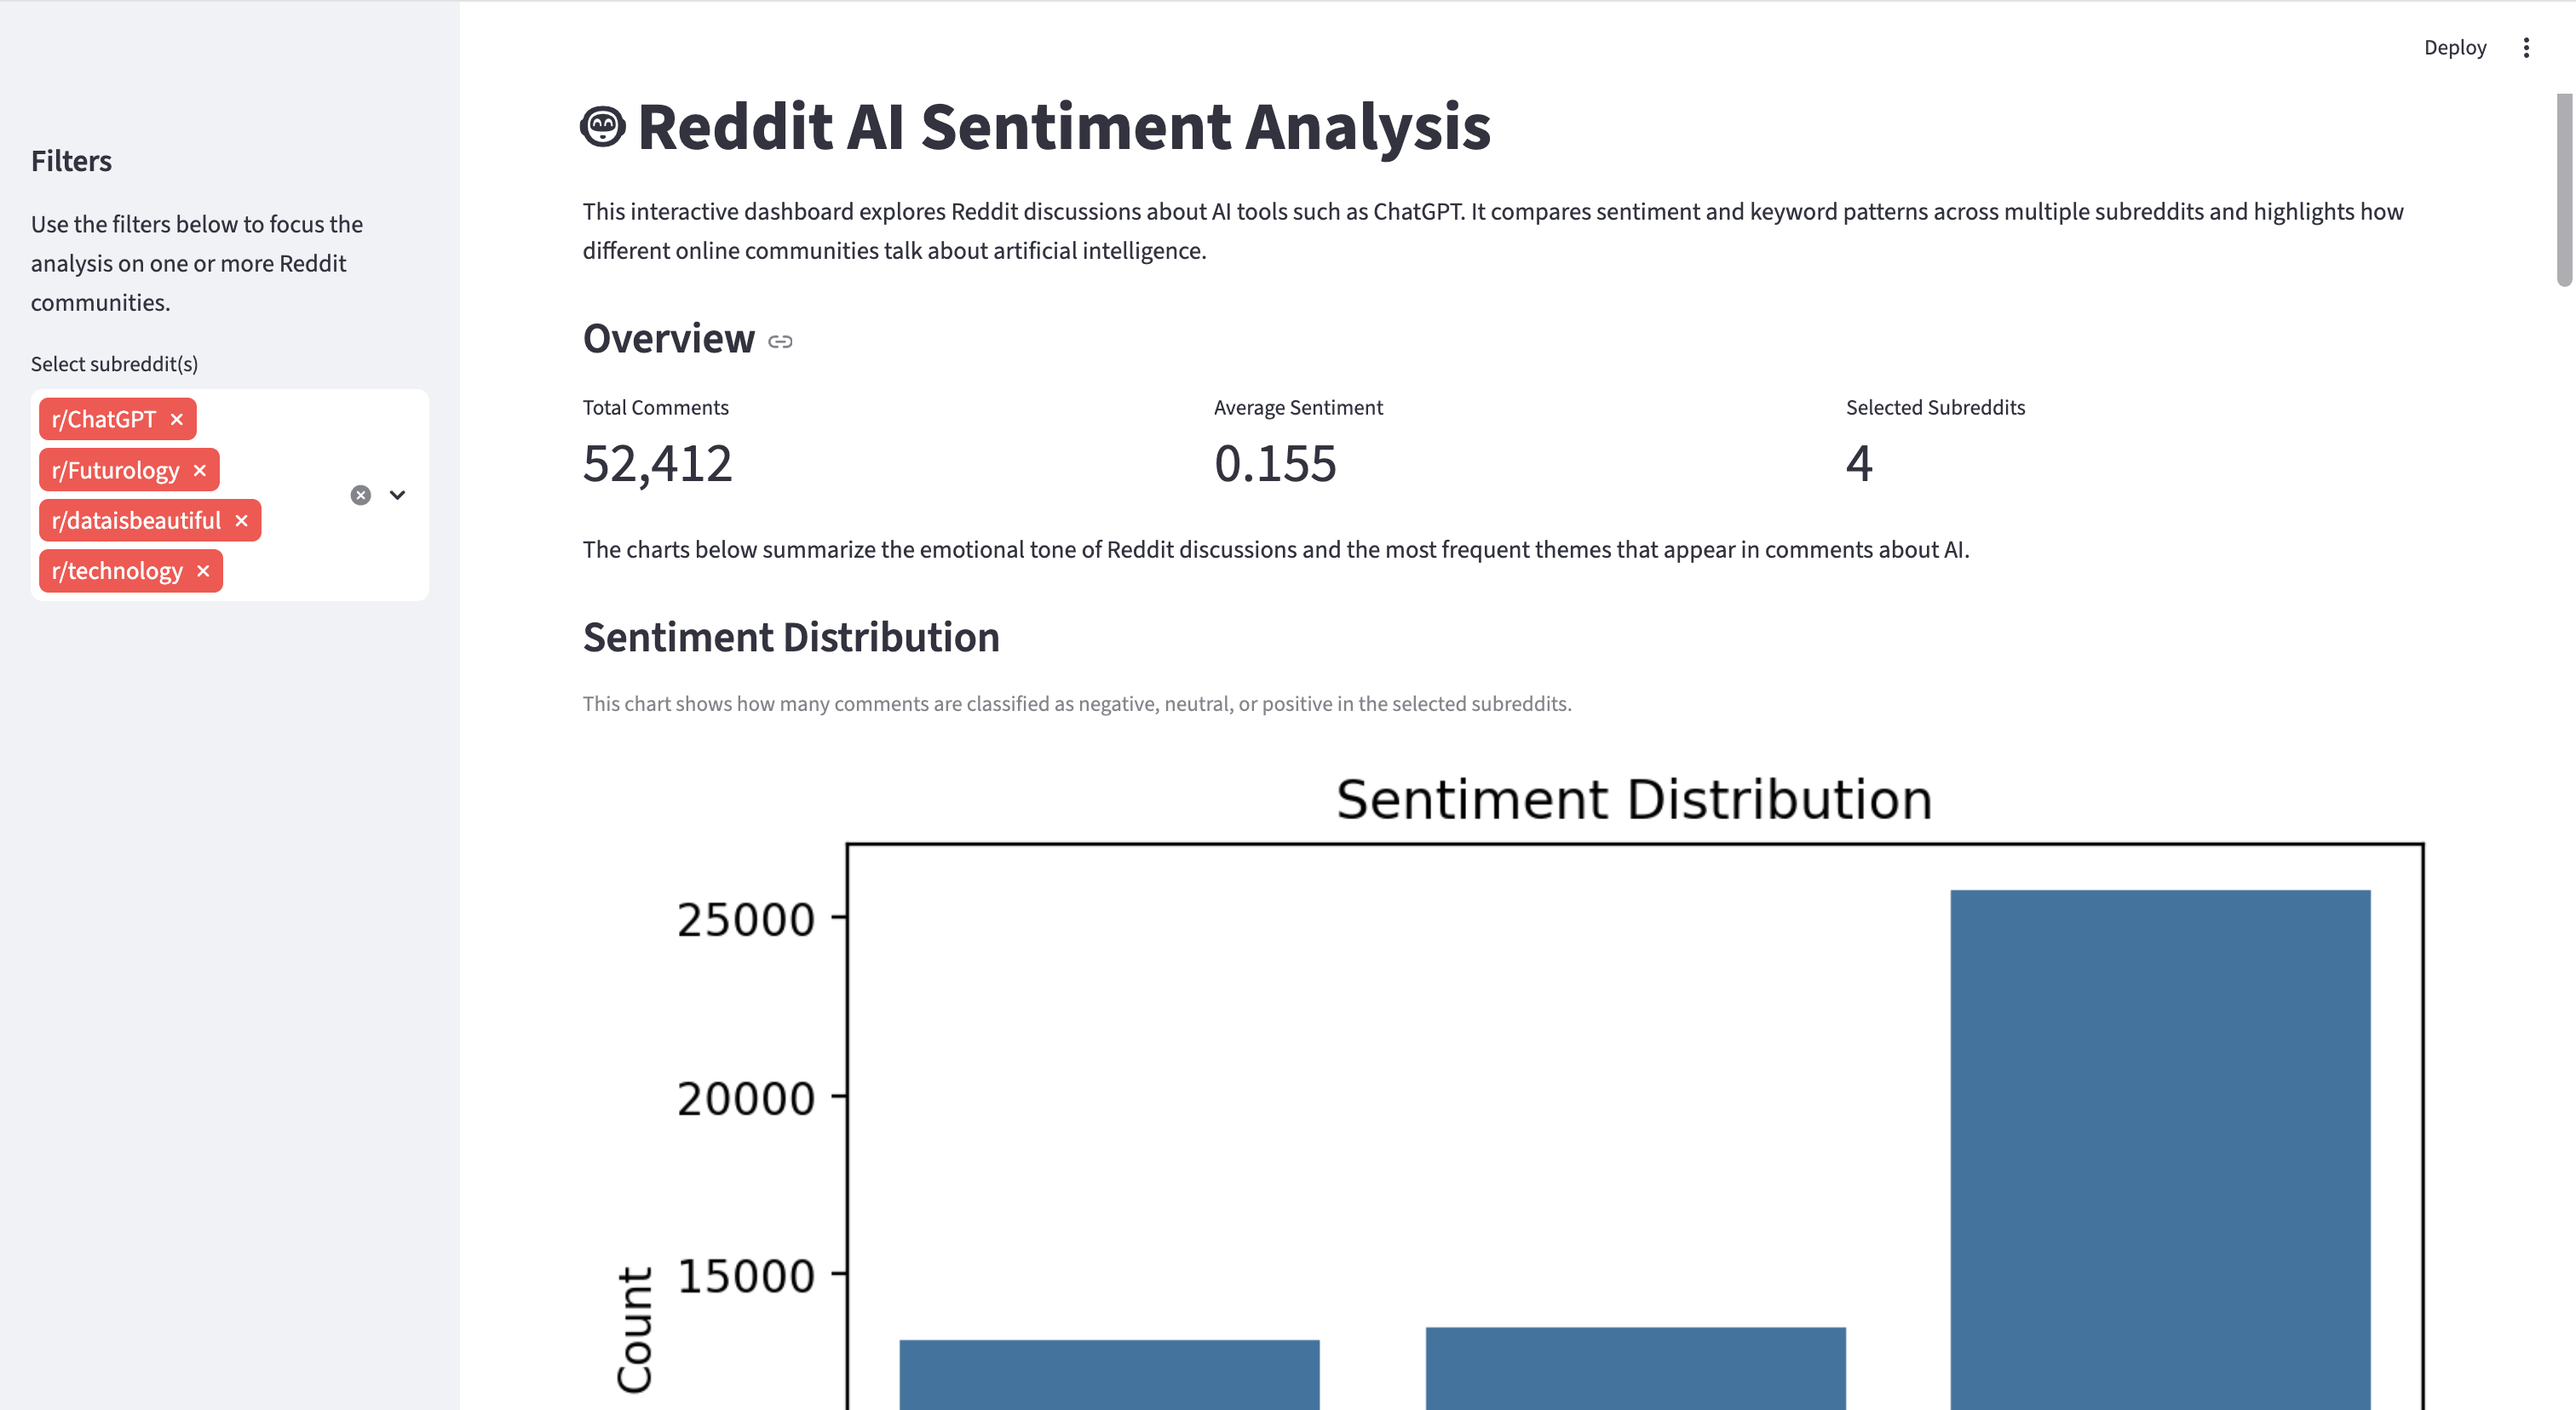
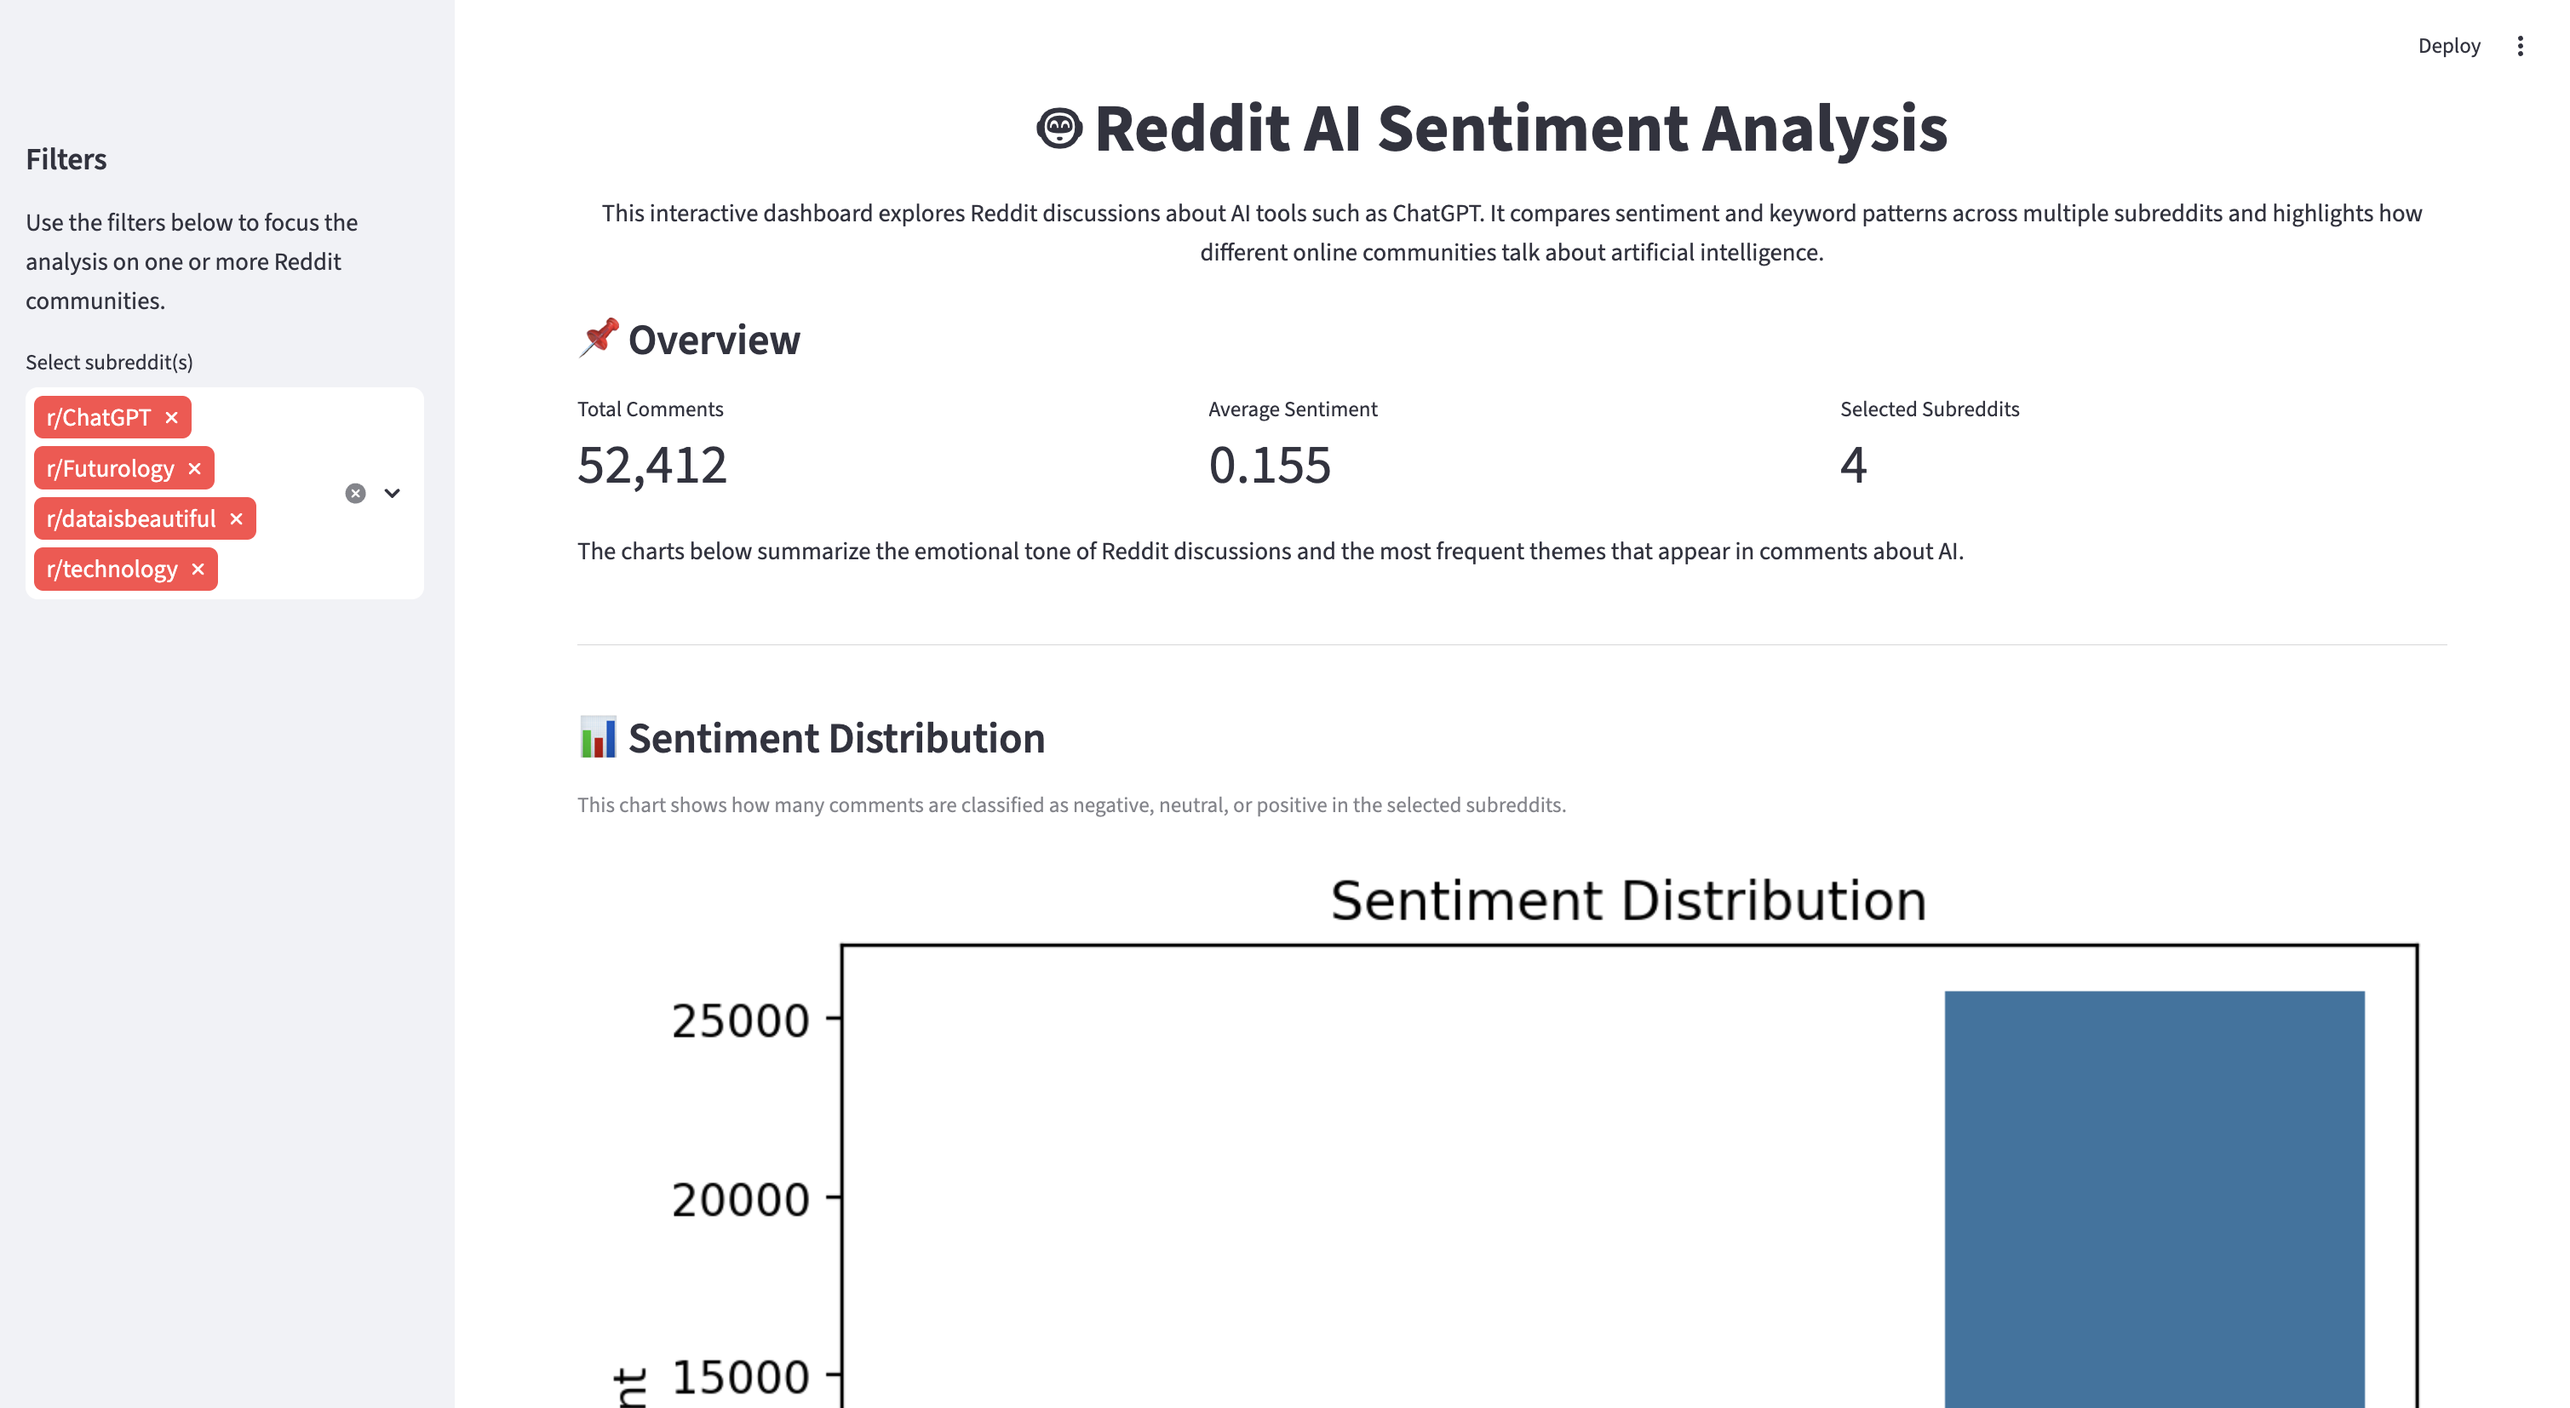
change overall layout of app for better visualization

diff --git a/app/streamlit_app.py b/app/streamlit_app.py
@@ -20,13 +20,19 @@ def load_data():
 df = load_data()
 
 # Title and intro
-st.title("🤖 Reddit AI Sentiment Analysis")
+st.markdown(
+    "<h1 style='text-align: center;'>🤖 Reddit AI Sentiment Analysis</h1>",
+    unsafe_allow_html=True
+)
 st.markdown(
     """
+    <p style='text-align: center;'>
     This interactive dashboard explores Reddit discussions about AI tools such as ChatGPT.
     It compares sentiment and keyword patterns across multiple subreddits and highlights
     how different online communities talk about artificial intelligence.
-    """
+    </p>
+    """,
+    unsafe_allow_html=True
 )
 
 # -----------------------------
@@ -54,7 +60,7 @@ if df_filtered.empty:
 # -----------------------------
 # Overview metrics
 # -----------------------------
-st.subheader("Overview")
+st.subheader("📌 Overview")
 
 col1, col2, col3 = st.columns(3)
 
@@ -72,7 +78,8 @@ st.markdown(
 # -----------------------------
 # Sentiment distribution
 # -----------------------------
-st.subheader("Sentiment Distribution")
+st.divider()
+st.subheader("📊 Sentiment Distribution")
 st.caption("This chart shows how many comments are classified as negative, neutral, or positive in the selected subreddits.")
 
 sentiment_order = ["negative", "neutral", "positive"]
@@ -95,7 +102,8 @@ st.markdown(
 # -----------------------------
 # Average sentiment by subreddit
 # -----------------------------
-st.subheader("Average Sentiment by Subreddit")
+st.divider()
+st.subheader("📈 Average Sentiment by Subreddit")
 st.caption("Average sentiment scores help compare how optimistic or neutral each subreddit is on average.")
 
 avg_sentiment = (
@@ -132,7 +140,8 @@ st.markdown(
 # -----------------------------
 # Top keywords
 # -----------------------------
-st.subheader("Top Keywords")
+st.divider()
+st.subheader("🔑 Top Keywords")
 st.caption("These are the most frequent keywords found in the filtered comments after stopword removal and text cleaning.")
 
 keyword_text = " ".join(df_filtered["text_keywords"].dropna().astype(str))
@@ -170,7 +179,8 @@ else:
 # -----------------------------
 # Word cloud
 # -----------------------------
-st.subheader("Word Cloud")
+st.divider()
+st.subheader("☁ Word Cloud")
 st.caption("The word cloud provides a quick visual summary of the most prominent terms in the selected comments.")
 
 if keyword_text.strip():
@@ -191,7 +201,8 @@ else:
 # -----------------------------
 # Example highly positive comments
 # -----------------------------
-st.subheader("Example Highly Positive Comments")
+st.divider()
+st.subheader("💬 Example Highly Positive Comments")
 st.caption("These examples illustrate how users express strong enthusiasm or appreciation when discussing AI tools.")
 
 # Keep only shorter comments so the examples are easier to read in the app
@@ -211,8 +222,8 @@ if not positive_examples.empty:
 else:
     st.info("No short positive comment examples are available for the selected subreddit(s).")
 
-st.markdown("---")
-st.subheader("Key Takeaways")
+st.divider()
+st.subheader("✅ Key Takeaways")
 st.markdown(
     """
     - Reddit discussions about AI are generally more positive or neutral than negative.
